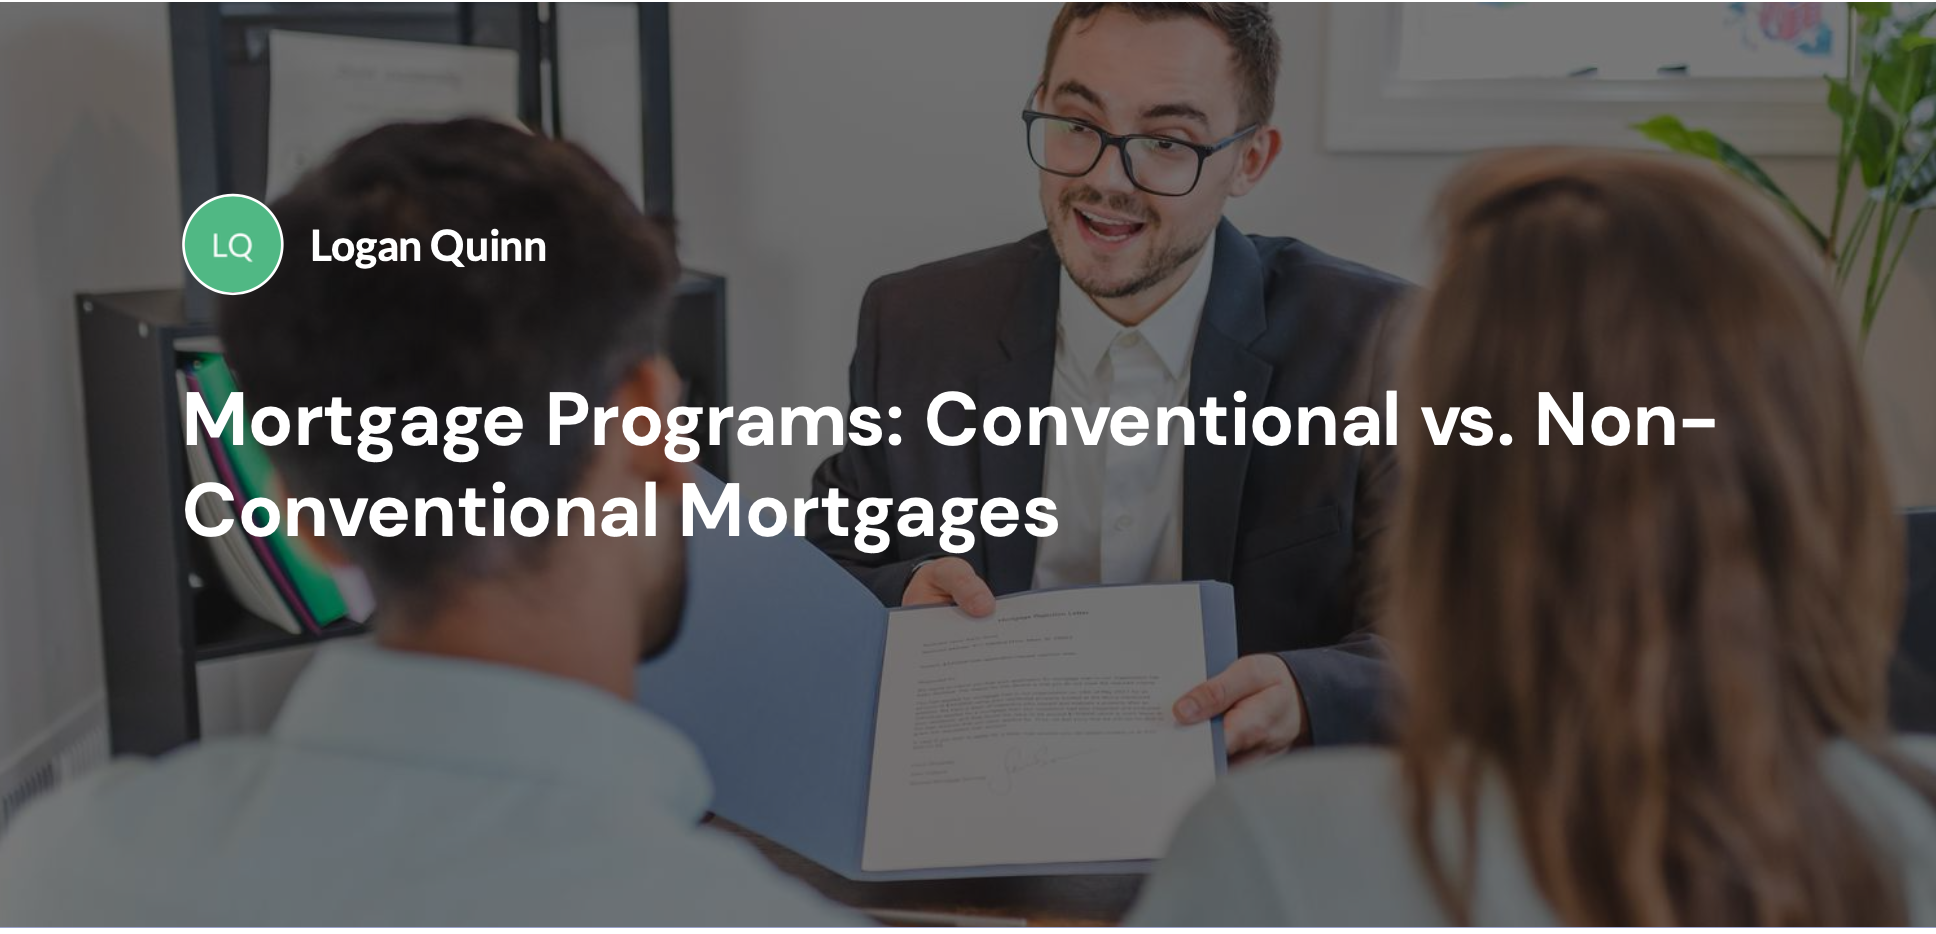
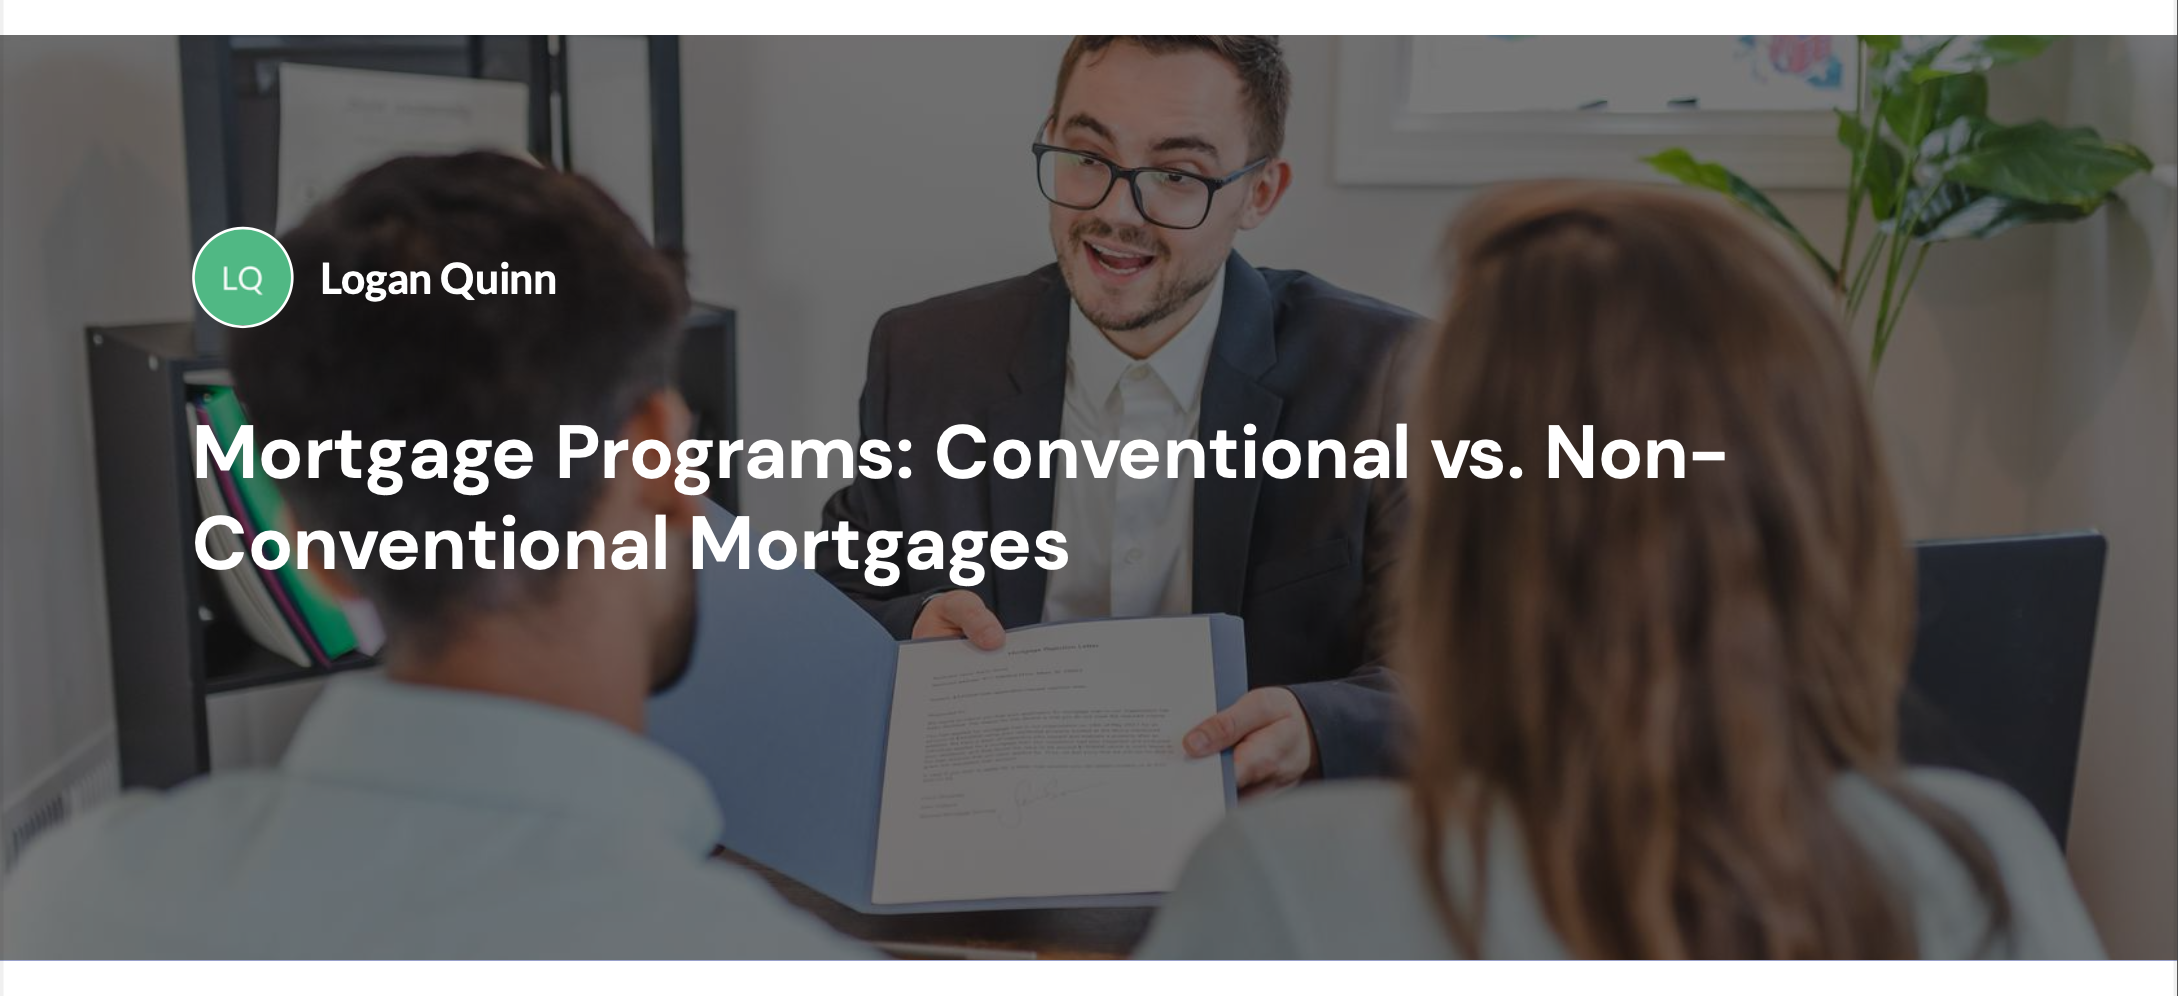
adjust size of mortgage cover, br line for LO

diff --git a/_layouts/leadership.html b/_layouts/leadership.html
@@ -17,15 +17,16 @@
     </p>
 
      <h3>Learning Objectives:</h3> 
+<br/>
 
-  <p>Explain the value of coaching.</p> 
-  <p>Apply the FUEL model during coaching.</p>
+  <p>1. Explain the value of coaching.</p> 
+  <p>2. Apply the FUEL model during coaching.</p>
   
-  <iframe width="560" height="340" src="https://www.youtube.com/embed/M3PT5V-Q0oA?si=IMK5LKqIefR8XlMl" 
+  <iframe width="720" height="405" src="https://www.youtube.com/embed/M3PT5V-Q0oA?si=IMK5LKqIefR8XlMl" 
   title="Management MAsterclass: Coaching" frameborder="0" allow="accelerometer; autoplay; clipboard-write; encrypted-media; 
   gyroscope; picture-in-picture; web-share" referrerpolicy="strict-origin-when-cross-origin" allowfullscreen></iframe>
 
-      <object data="img/portfolio/FUEL_Coaching.pdf" type="application/pdf" width="560px" height="340px">
+      <object data="img/portfolio/FUEL_Coaching.pdf" type="application/pdf" width="720px" height="405px">
         <embed src="img/portfolio/FUEL_Coaching.pdf" type="application/pdf">
             <p>This browser does not support PDFs. Please download the PDF to view it: <a href="img/portfolio/FUEL_Coaching.pdf">Download PDF</a>.</p>
         </embed>

diff --git a/_layouts/cerego.html b/_layouts/cerego.html
@@ -16,11 +16,12 @@
     </p>
 
      <h3>Learning Objectives:</h3> 
-  
-    <p>Describe the difference between conventional and non-conventional mortgages.</p>
-   <p>Explain the criteria lenders and government sponsored enterprises use for loan qualification.</p>
+  <br/>
 
-  <object data="img/portfolio/Mortgage_Program.pdf" type="application/pdf" width="560px" height="340px">
+  <p>1. Describe the difference between conventional and non-conventional mortgages.</p>
+  <p>2. Explain the criteria lenders and government sponsored enterprises use for loan qualification.</p>
+
+  <object data="img/portfolio/Mortgage_Program.pdf" type="application/pdf" width="720px" height="405px">
     <embed src="img/portfolio/Mortgage_Program.pdf" type="application/pdf">
         <p>This browser does not support PDFs. Please download the PDF to view it: <a href="img/portfolio/Mortgage_Program.pdf">Download PDF</a>.</p>
     </embed>

diff --git a/_layouts/phishing.html b/_layouts/phishing.html
@@ -16,11 +16,12 @@
       level of engagement. </p>
 
      <h3>Learning Objectives:</h3> 
+<br/>
 
-    <p>Recognize signs of a phishing attempt.</p> 
-    <p>Determine the steps to take when targeted by a phishing attempt.</p>
+    <p>1. Recognize signs of a phishing attempt.</p> 
+    <p>2. Determine the steps to take when targeted by a phishing attempt.</p>
 
-<iframe width="560" height="340" src="https://www.youtube.com/embed/GqBjv5rz3S0?si=7rqY4aECu3PjIjUY" 
+<iframe width="720" height="405" src="https://www.youtube.com/embed/GqBjv5rz3S0?si=7rqY4aECu3PjIjUY" 
 title="Phishing Awareness" frameborder="0" allow="accelerometer; autoplay; clipboard-write; encrypted-media; 
 gyroscope; picture-in-picture; web-share" referrerpolicy="strict-origin-when-cross-origin" allowfullscreen></iframe>
 </div>
